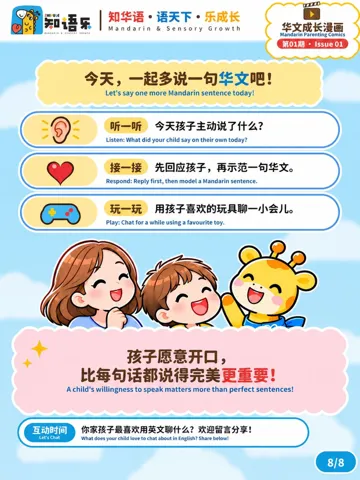
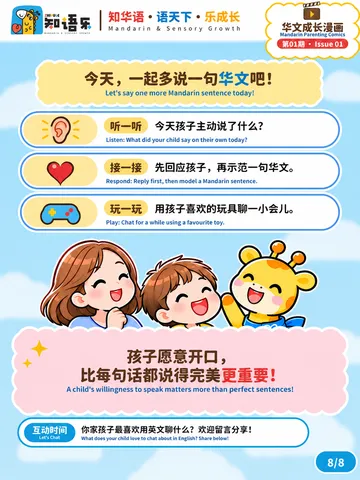
Replace comics issue 01 pages with corrected version (#10)
* Add HD Open House booking guide at /oh/ for WhatsApp auto-replies

Claude-Session: https://claude.ai/code/session_01Upodokur4TdWQNMQ22VW9f

* Add 15 Nov Parent-Child Mandarin Play Day recap to events pages

Group photo (one parent masked at their request) plus four activity photos,
bilingual copy, 4-up gallery style, and 9 new characters in the extra font subset.

Claude-Session: https://claude.ai/code/session_01Upodokur4TdWQNMQ22VW9f

* Replace comics issue 01 pages with corrected version

Claude-Session: https://claude.ai/code/session_01Upodokur4TdWQNMQ22VW9f

---------

diff --git a/en/comics/index.html b/en/comics/index.html
@@ -1,4 +1,4 @@
-<!doctype html><html lang="en"><head><!-- Google Tag Manager --><script>(function(w,d,s,l,i){w[l]=w[l]||[];w[l].push({'gtm.start':new Date().getTime(),event:'gtm.js'});var f=d.getElementsByTagName(s)[0],j=d.createElement(s),dl=l!='dataLayer'?'&l='+l:'';j.async=true;j.src='https://www.googletagmanager.com/gtm.js?id='+i+dl;f.parentNode.insertBefore(j,f);})(window,document,'script','dataLayer','GTM-PT9BQ7QQ');</script><!-- End Google Tag Manager --><!-- Google tag (gtag.js) --><script async src="https://www.googletagmanager.com/gtag/js?id=AW-18575906021"></script><script>window.dataLayer=window.dataLayer||[];function gtag(){dataLayer.push(arguments);}gtag('js',new Date());gtag('config','AW-18575906021');</script><!-- ChatGPT Ads measurement pixel --><script>!function(w,d,s,u){if(w.oaiq)return;var q=function(){q.q.push(arguments)};q.q=[];w.oaiq=q;var e=d.createElement(s);e.async=1;e.src=u;var f=d.getElementsByTagName(s)[0];f.parentNode.insertBefore(e,f)}(window,document,'script','https://bzrcdn.openai.com/sdk/oaiq.min.js');oaiq('init',{pixelId:'LngSCNQqQf6xZUMQBdrCTz'});oaiq('measure','page_viewed',{type:'contents'});</script><meta charset="utf-8"><meta name="viewport" content="width=device-width,initial-scale=1"><title>Mandarin Parenting Comics · 知语乐 ZHIYULE</title><meta name="description" content="ZHIYULE Mandarin Parenting Comics: bilingual comics about everyday Mandarin moments at home, each with simple ideas you can try today."><link rel="canonical" href="https://www.zhiyule.com.sg/en/comics/"><meta property="og:type" content="website"><meta property="og:site_name" content="知语乐 ZHIYULE"><meta property="og:title" content="Mandarin Parenting Comics · 知语乐 ZHIYULE"><meta property="og:description" content="ZHIYULE Mandarin Parenting Comics: bilingual comics about everyday Mandarin moments at home, each with simple ideas you can try today."><meta property="og:url" content="https://www.zhiyule.com.sg/en/comics/"><meta property="og:locale" content="en_SG"><meta property="og:image" content="https://www.zhiyule.com.sg/assets/comics/issue-01/og.jpg"><meta property="og:image:width" content="1200"><meta property="og:image:height" content="630"><meta property="og:image:alt" content="知语乐 ZHIYULE"><meta name="twitter:card" content="summary_large_image"><meta name="theme-color" content="#fff9ef"><link rel="alternate" hreflang="zh-Hans" href="/zh/comics/"><link rel="alternate" hreflang="en" href="/en/comics/"><link rel="icon" href="/assets/favicon.svg"><link rel="preload" href="/assets/fonts/rounded-regular.woff2" as="font" type="font/woff2" crossorigin><link rel="stylesheet" href="/assets/styles.css?v=20261117a"><script>try{if(location.pathname==='/')location.replace('/'+(localStorage.getItem('zhiyule-language')==='zh'?'zh':'en')+'/')}catch(e){}</script><script defer src="/assets/ui.js?v=20261115h"></script><link rel="stylesheet" href="/review.css?v=20261115a"></head><body data-home="false"><!-- Google Tag Manager (noscript) --><noscript><iframe src="https://www.googletagmanager.com/ns.html?id=GTM-PT9BQ7QQ" height="0" width="0" style="display:none;visibility:hidden"></iframe></noscript><!-- End Google Tag Manager (noscript) --><a class="skip" href="#main">Skip to content</a><div class="topline">Singapore · 18 months to 6.5 years · A nurturing space for preschool Mandarin<button type="button" class="music-toggle music-speaker" aria-label="Play theme song" aria-pressed="false"><svg viewBox="0 0 32 32" aria-hidden="true" focusable="false"><path d="M6 12h5l7-5v18l-7-5H6a2 2 0 0 1-2-2v-4a2 2 0 0 1 2-2Z" fill="#f3ae9d" stroke="#9b7060" stroke-width="1.7" stroke-linejoin="round"/><path class="sound-waves" d="M22 12q4 4 0 8m3-12q7 8 0 16" fill="none" stroke="#78976c" stroke-width="2.3" stroke-linecap="round"/><path class="sound-silent" d="m23 14 5 5m0-5-5 5" stroke="#9b7060" stroke-width="2" stroke-linecap="round"/></svg></button></div><header class="header"><div class="wrap header-row"><a class="brand" href="/en/" aria-label="ZHIYULE home"><span class="logo-window"><img src="/assets/brand-logo-vector.svg" alt="知语乐 ZHIYULE" width="1280" height="480"></span></a><nav id="main-nav" class="nav" aria-label="Main navigation"><a class="nav-pill tone-0" href="/en/why-zhiyule/">Why ZHIYULE</a><a class="nav-pill tone-1" href="/en/programmes/">Programmes</a><a class="nav-pill tone-2" href="/en/approach/">Our approach</a><a class="nav-pill tone-3" href="/en/founder/">Our story</a><a class="nav-pill tone-4" href="/en/parents/" aria-current="page">Parent space</a><a class="nav-pill tone-5" href="/en/events/">Events</a><a class="nav-pill tone-6" href="/en/contact/">Contact</a></nav><div class="header-actions"><a class="language" href="/zh/comics/" lang="zh-Hans">中文</a><a class="button " href="/en/trial/">Book a trial</a><button class="menu-button" aria-controls="site-menu" aria-expanded="false" aria-label="All pages">☰</button></div></div><dialog id="site-menu" class="site-menu"><div class="menu-heading"><h2>Explore ZHIYULE</h2><button type="button" data-close-menu aria-label="Close menu">×</button></div><nav aria-label="All site pages"><a class="" href="/en/">Home</a><a class="" href="/en/why-zhiyule/">Why ZHIYULE</a><a class="" href="/en/programmes/">Programmes</a><a class="" href="/en/programmes/pg/">PG · ZHIYULE Seeds</a><a class="" href="/en/programmes/n1/">N1 · ZHIYULE Sprouts</a><a class="" href="/en/programmes/n2/">N2 · ZHIYULE Stems</a><a class="" href="/en/programmes/k1/">K1 · ZHIYULE Leaves</a><a class="" href="/en/programmes/k2/">K2 · ZHIYULE Blooms</a><a class="" href="/en/approach/">Our approach</a><a class="" href="/en/founder/">Our story</a><a class="" href="/en/parents/">Parent space</a><a class="" href="/en/comics/">Mandarin Parenting Comics</a><a class="" href="/en/events/">Events</a><a class="" href="/en/contact/">Contact</a><a class="" href="/en/trial/">Book a trial</a><a class="" href="/en/faq/">FAQ</a></nav></dialog></header><main id="main"><div class="wrap breadcrumb"><a class="" href="/en/">Home</a> / <a class="" href="/en/parents/">Parent space</a> / Mandarin Parenting Comics</div><div class="wrap"><div class="comic-hero"><p class="eyebrow">MANDARIN PARENTING COMICS · ISSUE 01</p><h1>My child understands Mandarin, so why do they reply in English?</h1><p class="intro">You speak Mandarin and your child switches straight to English? Don’t jump to conclusions yet. Use the left and right arrows to turn the pages. 8 pages in all.</p></div></div><section class="section comic-section"><div class="wrap"><article class="comic-issue" id="issue-01"><noscript><style>.cr-page{display:block}.cr-nav,.cr-dots{display:none!important}</style></noscript><div class="comic-reader" tabindex="0" aria-roledescription="carousel" aria-label="My child understands Mandarin, so why do they reply in English?"><div class="cr-stage"><button type="button" class="cr-nav cr-prev" data-step="-1" aria-label="Previous page">‹</button><ol class="cr-pages"><li class="cr-page is-current" data-page="1"><img src="/assets/comics/issue-01/p1.webp?v=2" alt="Cover: My child understands Mandarin, so why do they reply in English?" width="1600" height="2133" loading="eager"><p class="cr-caption">Page 1 of 8 · Cover: My child understands Mandarin, so why do they reply in English?</p></li><li class="cr-page" data-page="2"><img src="/assets/comics/issue-01/p2.webp?v=2" alt="Why does my child keep replying in English?" width="1600" height="2133" loading="lazy"><p class="cr-caption">Page 2 of 8 · Why does my child keep replying in English?</p></li><li class="cr-page" data-page="3"><img src="/assets/comics/issue-01/p3.webp?v=2" alt="The secret of language blocks" width="1600" height="2133" loading="lazy"><p class="cr-caption">Page 3 of 8 · The secret of language blocks</p></li><li class="cr-page" data-page="4"><img src="/assets/comics/issue-01/p4.webp?v=2" alt="Method 1: Turn Mandarin into a fun game" width="1600" height="2133" loading="lazy"><p class="cr-caption">Page 4 of 8 · Method 1: Turn Mandarin into a fun game</p></li><li class="cr-page" data-page="5"><img src="/assets/comics/issue-01/p5.webp?v=2" alt="Method 2: When your child speaks English, how should you respond?" width="1600" height="2133" loading="lazy"><p class="cr-caption">Page 5 of 8 · Method 2: When your child speaks English, how should you respond?</p></li><li class="cr-page" data-page="6"><img src="/assets/comics/issue-01/p6.webp?v=2" alt="Method 3: Follow their interest and keep the chat going" width="1600" height="2133" loading="lazy"><p class="cr-caption">Page 6 of 8 · Method 3: Follow their interest and keep the chat going</p></li><li class="cr-page" data-page="7"><img src="/assets/comics/issue-01/p7.webp?v=2" alt="Create a Mandarin-friendly home" width="1600" height="2133" loading="lazy"><p class="cr-caption">Page 7 of 8 · Create a Mandarin-friendly home</p></li><li class="cr-page" data-page="8"><img src="/assets/comics/issue-01/p8.webp?v=2" alt="Let’s say one more Mandarin sentence today" width="1600" height="2133" loading="lazy"><p class="cr-caption">Page 8 of 8 · Let’s say one more Mandarin sentence today</p></li></ol><button type="button" class="cr-nav cr-next" data-step="1" aria-label="Next page">›</button></div><div class="cr-dots"><button type="button" class="cr-mnav" data-step="-1" aria-label="Previous page">‹</button><button type="button" class="cr-dot" data-go="1" aria-label="Page 1 of 8" aria-current="true">1</button><button type="button" class="cr-dot" data-go="2" aria-label="Page 2 of 8">2</button><button type="button" class="cr-dot" data-go="3" aria-label="Page 3 of 8">3</button><button type="button" class="cr-dot" data-go="4" aria-label="Page 4 of 8">4</button><button type="button" class="cr-dot" data-go="5" aria-label="Page 5 of 8">5</button><button type="button" class="cr-dot" data-go="6" aria-label="Page 6 of 8">6</button><button type="button" class="cr-dot" data-go="7" aria-label="Page 7 of 8">7</button><button type="button" class="cr-dot" data-go="8" aria-label="Page 8 of 8">8</button><button type="button" class="cr-mnav" data-step="1" aria-label="Next page">›</button></div></div><div class="comic-summary card"><h3>What this issue covers</h3><ul><li><strong>Understanding and speaking are different skills.</strong> Replying in English may come down to fluency, habit or confidence. One answer in English doesn’t mean your child doesn’t want to learn Mandarin.</li><li><strong>Method 1: Turn Mandarin into a fun game.</strong> Start with the toys and games your child loves. Don’t push them to speak; make them want to.</li><li><strong>Method 2: When your child speaks English, respond to the meaning first.</strong> Reply to what they want to say, then model the Mandarin sentence naturally. There’s no need to make them repeat it straight away.</li><li><strong>Method 3: Follow their interest and keep the chat going.</strong> Add your own observations, imagination and experiences, so the conversation flows back and forth like passing a ball.</li><li><strong>Create a Mandarin-friendly home.</strong> Use Mandarin at meals, brushing teeth and getting dressed, read picture books together, and make time to tell stories and act them out.</li></ul><p class="comic-takeaway">A child’s willingness to speak matters more than perfect sentences.</p></div></article></div></section><section class="section soft"><div class="wrap"><div class="comic-more"><div><h2>Coming next</h2><p>Later issues in Season 1 look at “I don’t want to learn Mandarin!”, children who can’t sit still, and more. Follow us on Facebook and Instagram to see each new issue first.</p></div><div class="actions"><a class="button secondary" href="https://www.facebook.com/profile.php?id=61595439665615" rel="noopener" target="_blank">Facebook</a><a class="button secondary" href="https://www.instagram.com/zhiyule.sg/" rel="noopener" target="_blank">Instagram</a></div></div></div></section><section class="section"><div class="wrap"><div class="cta"><div><h2>See how your child starts speaking in class</h2><p>Founding Open House, 12–27 Dec: a free 45-minute parent-child Mandarin lesson, with you there the whole time.</p></div><div class="actions"><a class="button" href="https://wa.me/6580719508?text=Hi%20ZHIYULE%2C%20I%20read%20the%20Mandarin%20Parenting%20Comics%20and%20I%27d%20like%20to%20book%20the%20Founding%20Open%20House.%0AChild%27s%20name%3A%0ADate%20of%20birth%3A%0APreferred%20date%20and%20time%3A" rel="noopener" target="_blank">Book the Open House on WhatsApp</a></div></div></div></section></main><script>/* Comics: show one page at a time, turned with the arrow buttons, page numbers, arrow keys or a swipe. */
+<!doctype html><html lang="en"><head><!-- Google Tag Manager --><script>(function(w,d,s,l,i){w[l]=w[l]||[];w[l].push({'gtm.start':new Date().getTime(),event:'gtm.js'});var f=d.getElementsByTagName(s)[0],j=d.createElement(s),dl=l!='dataLayer'?'&l='+l:'';j.async=true;j.src='https://www.googletagmanager.com/gtm.js?id='+i+dl;f.parentNode.insertBefore(j,f);})(window,document,'script','dataLayer','GTM-PT9BQ7QQ');</script><!-- End Google Tag Manager --><!-- Google tag (gtag.js) --><script async src="https://www.googletagmanager.com/gtag/js?id=AW-18575906021"></script><script>window.dataLayer=window.dataLayer||[];function gtag(){dataLayer.push(arguments);}gtag('js',new Date());gtag('config','AW-18575906021');</script><!-- ChatGPT Ads measurement pixel --><script>!function(w,d,s,u){if(w.oaiq)return;var q=function(){q.q.push(arguments)};q.q=[];w.oaiq=q;var e=d.createElement(s);e.async=1;e.src=u;var f=d.getElementsByTagName(s)[0];f.parentNode.insertBefore(e,f)}(window,document,'script','https://bzrcdn.openai.com/sdk/oaiq.min.js');oaiq('init',{pixelId:'LngSCNQqQf6xZUMQBdrCTz'});oaiq('measure','page_viewed',{type:'contents'});</script><meta charset="utf-8"><meta name="viewport" content="width=device-width,initial-scale=1"><title>Mandarin Parenting Comics · 知语乐 ZHIYULE</title><meta name="description" content="ZHIYULE Mandarin Parenting Comics: bilingual comics about everyday Mandarin moments at home, each with simple ideas you can try today."><link rel="canonical" href="https://www.zhiyule.com.sg/en/comics/"><meta property="og:type" content="website"><meta property="og:site_name" content="知语乐 ZHIYULE"><meta property="og:title" content="Mandarin Parenting Comics · 知语乐 ZHIYULE"><meta property="og:description" content="ZHIYULE Mandarin Parenting Comics: bilingual comics about everyday Mandarin moments at home, each with simple ideas you can try today."><meta property="og:url" content="https://www.zhiyule.com.sg/en/comics/"><meta property="og:locale" content="en_SG"><meta property="og:image" content="https://www.zhiyule.com.sg/assets/comics/issue-01/og.jpg"><meta property="og:image:width" content="1200"><meta property="og:image:height" content="630"><meta property="og:image:alt" content="知语乐 ZHIYULE"><meta name="twitter:card" content="summary_large_image"><meta name="theme-color" content="#fff9ef"><link rel="alternate" hreflang="zh-Hans" href="/zh/comics/"><link rel="alternate" hreflang="en" href="/en/comics/"><link rel="icon" href="/assets/favicon.svg"><link rel="preload" href="/assets/fonts/rounded-regular.woff2" as="font" type="font/woff2" crossorigin><link rel="stylesheet" href="/assets/styles.css?v=20261117a"><script>try{if(location.pathname==='/')location.replace('/'+(localStorage.getItem('zhiyule-language')==='zh'?'zh':'en')+'/')}catch(e){}</script><script defer src="/assets/ui.js?v=20261115h"></script><link rel="stylesheet" href="/review.css?v=20261115a"></head><body data-home="false"><!-- Google Tag Manager (noscript) --><noscript><iframe src="https://www.googletagmanager.com/ns.html?id=GTM-PT9BQ7QQ" height="0" width="0" style="display:none;visibility:hidden"></iframe></noscript><!-- End Google Tag Manager (noscript) --><a class="skip" href="#main">Skip to content</a><div class="topline">Singapore · 18 months to 6.5 years · A nurturing space for preschool Mandarin<button type="button" class="music-toggle music-speaker" aria-label="Play theme song" aria-pressed="false"><svg viewBox="0 0 32 32" aria-hidden="true" focusable="false"><path d="M6 12h5l7-5v18l-7-5H6a2 2 0 0 1-2-2v-4a2 2 0 0 1 2-2Z" fill="#f3ae9d" stroke="#9b7060" stroke-width="1.7" stroke-linejoin="round"/><path class="sound-waves" d="M22 12q4 4 0 8m3-12q7 8 0 16" fill="none" stroke="#78976c" stroke-width="2.3" stroke-linecap="round"/><path class="sound-silent" d="m23 14 5 5m0-5-5 5" stroke="#9b7060" stroke-width="2" stroke-linecap="round"/></svg></button></div><header class="header"><div class="wrap header-row"><a class="brand" href="/en/" aria-label="ZHIYULE home"><span class="logo-window"><img src="/assets/brand-logo-vector.svg" alt="知语乐 ZHIYULE" width="1280" height="480"></span></a><nav id="main-nav" class="nav" aria-label="Main navigation"><a class="nav-pill tone-0" href="/en/why-zhiyule/">Why ZHIYULE</a><a class="nav-pill tone-1" href="/en/programmes/">Programmes</a><a class="nav-pill tone-2" href="/en/approach/">Our approach</a><a class="nav-pill tone-3" href="/en/founder/">Our story</a><a class="nav-pill tone-4" href="/en/parents/" aria-current="page">Parent space</a><a class="nav-pill tone-5" href="/en/events/">Events</a><a class="nav-pill tone-6" href="/en/contact/">Contact</a></nav><div class="header-actions"><a class="language" href="/zh/comics/" lang="zh-Hans">中文</a><a class="button " href="/en/trial/">Book a trial</a><button class="menu-button" aria-controls="site-menu" aria-expanded="false" aria-label="All pages">☰</button></div></div><dialog id="site-menu" class="site-menu"><div class="menu-heading"><h2>Explore ZHIYULE</h2><button type="button" data-close-menu aria-label="Close menu">×</button></div><nav aria-label="All site pages"><a class="" href="/en/">Home</a><a class="" href="/en/why-zhiyule/">Why ZHIYULE</a><a class="" href="/en/programmes/">Programmes</a><a class="" href="/en/programmes/pg/">PG · ZHIYULE Seeds</a><a class="" href="/en/programmes/n1/">N1 · ZHIYULE Sprouts</a><a class="" href="/en/programmes/n2/">N2 · ZHIYULE Stems</a><a class="" href="/en/programmes/k1/">K1 · ZHIYULE Leaves</a><a class="" href="/en/programmes/k2/">K2 · ZHIYULE Blooms</a><a class="" href="/en/approach/">Our approach</a><a class="" href="/en/founder/">Our story</a><a class="" href="/en/parents/">Parent space</a><a class="" href="/en/comics/">Mandarin Parenting Comics</a><a class="" href="/en/events/">Events</a><a class="" href="/en/contact/">Contact</a><a class="" href="/en/trial/">Book a trial</a><a class="" href="/en/faq/">FAQ</a></nav></dialog></header><main id="main"><div class="wrap breadcrumb"><a class="" href="/en/">Home</a> / <a class="" href="/en/parents/">Parent space</a> / Mandarin Parenting Comics</div><div class="wrap"><div class="comic-hero"><p class="eyebrow">MANDARIN PARENTING COMICS · ISSUE 01</p><h1>My child understands Mandarin, so why do they reply in English?</h1><p class="intro">You speak Mandarin and your child switches straight to English? Don’t jump to conclusions yet. Use the left and right arrows to turn the pages. 8 pages in all.</p></div></div><section class="section comic-section"><div class="wrap"><article class="comic-issue" id="issue-01"><noscript><style>.cr-page{display:block}.cr-nav,.cr-dots{display:none!important}</style></noscript><div class="comic-reader" tabindex="0" aria-roledescription="carousel" aria-label="My child understands Mandarin, so why do they reply in English?"><div class="cr-stage"><button type="button" class="cr-nav cr-prev" data-step="-1" aria-label="Previous page">‹</button><ol class="cr-pages"><li class="cr-page is-current" data-page="1"><img src="/assets/comics/issue-01/p1.webp?v=3" alt="Cover: My child understands Mandarin, so why do they reply in English?" width="1600" height="2133" loading="eager"><p class="cr-caption">Page 1 of 8 · Cover: My child understands Mandarin, so why do they reply in English?</p></li><li class="cr-page" data-page="2"><img src="/assets/comics/issue-01/p2.webp?v=3" alt="Why does my child keep replying in English?" width="1600" height="2133" loading="lazy"><p class="cr-caption">Page 2 of 8 · Why does my child keep replying in English?</p></li><li class="cr-page" data-page="3"><img src="/assets/comics/issue-01/p3.webp?v=3" alt="The secret of language blocks" width="1600" height="2133" loading="lazy"><p class="cr-caption">Page 3 of 8 · The secret of language blocks</p></li><li class="cr-page" data-page="4"><img src="/assets/comics/issue-01/p4.webp?v=3" alt="Method 1: Turn Mandarin into a fun game" width="1600" height="2133" loading="lazy"><p class="cr-caption">Page 4 of 8 · Method 1: Turn Mandarin into a fun game</p></li><li class="cr-page" data-page="5"><img src="/assets/comics/issue-01/p5.webp?v=3" alt="Method 2: When your child speaks English, how should you respond?" width="1600" height="2133" loading="lazy"><p class="cr-caption">Page 5 of 8 · Method 2: When your child speaks English, how should you respond?</p></li><li class="cr-page" data-page="6"><img src="/assets/comics/issue-01/p6.webp?v=3" alt="Method 3: Follow their interest and keep the chat going" width="1600" height="2133" loading="lazy"><p class="cr-caption">Page 6 of 8 · Method 3: Follow their interest and keep the chat going</p></li><li class="cr-page" data-page="7"><img src="/assets/comics/issue-01/p7.webp?v=3" alt="Create a Mandarin-friendly home" width="1600" height="2133" loading="lazy"><p class="cr-caption">Page 7 of 8 · Create a Mandarin-friendly home</p></li><li class="cr-page" data-page="8"><img src="/assets/comics/issue-01/p8.webp?v=3" alt="Let’s say one more Mandarin sentence today" width="1600" height="2133" loading="lazy"><p class="cr-caption">Page 8 of 8 · Let’s say one more Mandarin sentence today</p></li></ol><button type="button" class="cr-nav cr-next" data-step="1" aria-label="Next page">›</button></div><div class="cr-dots"><button type="button" class="cr-mnav" data-step="-1" aria-label="Previous page">‹</button><button type="button" class="cr-dot" data-go="1" aria-label="Page 1 of 8" aria-current="true">1</button><button type="button" class="cr-dot" data-go="2" aria-label="Page 2 of 8">2</button><button type="button" class="cr-dot" data-go="3" aria-label="Page 3 of 8">3</button><button type="button" class="cr-dot" data-go="4" aria-label="Page 4 of 8">4</button><button type="button" class="cr-dot" data-go="5" aria-label="Page 5 of 8">5</button><button type="button" class="cr-dot" data-go="6" aria-label="Page 6 of 8">6</button><button type="button" class="cr-dot" data-go="7" aria-label="Page 7 of 8">7</button><button type="button" class="cr-dot" data-go="8" aria-label="Page 8 of 8">8</button><button type="button" class="cr-mnav" data-step="1" aria-label="Next page">›</button></div></div><div class="comic-summary card"><h3>What this issue covers</h3><ul><li><strong>Understanding and speaking are different skills.</strong> Replying in English may come down to fluency, habit or confidence. One answer in English doesn’t mean your child doesn’t want to learn Mandarin.</li><li><strong>Method 1: Turn Mandarin into a fun game.</strong> Start with the toys and games your child loves. Don’t push them to speak; make them want to.</li><li><strong>Method 2: When your child speaks English, respond to the meaning first.</strong> Reply to what they want to say, then model the Mandarin sentence naturally. There’s no need to make them repeat it straight away.</li><li><strong>Method 3: Follow their interest and keep the chat going.</strong> Add your own observations, imagination and experiences, so the conversation flows back and forth like passing a ball.</li><li><strong>Create a Mandarin-friendly home.</strong> Use Mandarin at meals, brushing teeth and getting dressed, read picture books together, and make time to tell stories and act them out.</li></ul><p class="comic-takeaway">A child’s willingness to speak matters more than perfect sentences.</p></div></article></div></section><section class="section soft"><div class="wrap"><div class="comic-more"><div><h2>Coming next</h2><p>Later issues in Season 1 look at “I don’t want to learn Mandarin!”, children who can’t sit still, and more. Follow us on Facebook and Instagram to see each new issue first.</p></div><div class="actions"><a class="button secondary" href="https://www.facebook.com/profile.php?id=61595439665615" rel="noopener" target="_blank">Facebook</a><a class="button secondary" href="https://www.instagram.com/zhiyule.sg/" rel="noopener" target="_blank">Instagram</a></div></div></div></section><section class="section"><div class="wrap"><div class="cta"><div><h2>See how your child starts speaking in class</h2><p>Founding Open House, 12–27 Dec: a free 45-minute parent-child Mandarin lesson, with you there the whole time.</p></div><div class="actions"><a class="button" href="https://wa.me/6580719508?text=Hi%20ZHIYULE%2C%20I%20read%20the%20Mandarin%20Parenting%20Comics%20and%20I%27d%20like%20to%20book%20the%20Founding%20Open%20House.%0AChild%27s%20name%3A%0ADate%20of%20birth%3A%0APreferred%20date%20and%20time%3A" rel="noopener" target="_blank">Book the Open House on WhatsApp</a></div></div></div></section></main><script>/* Comics: show one page at a time, turned with the arrow buttons, page numbers, arrow keys or a swipe. */
 (()=>{const r=document.querySelector('.comic-reader');if(!r)return;r.classList.add('js-reader');
 const pages=[...r.querySelectorAll('.cr-page')],dots=[...r.querySelectorAll('.cr-dot')];let n=1;
 const go=(k,scroll)=>{n=Math.min(Math.max(k,1),pages.length);pages.forEach((p,i)=>p.classList.toggle('is-current',i===n-1));dots.forEach((d,i)=>{if(i===n-1)d.setAttribute('aria-current','true');else d.removeAttribute('aria-current')});r.querySelectorAll('[data-step]').forEach(b=>{b.disabled=+b.dataset.step<0?n===1:n===pages.length});

diff --git a/zh/comics/index.html b/zh/comics/index.html
@@ -1,4 +1,4 @@
-<!doctype html><html lang="zh-Hans"><head><!-- Google Tag Manager --><script>(function(w,d,s,l,i){w[l]=w[l]||[];w[l].push({'gtm.start':new Date().getTime(),event:'gtm.js'});var f=d.getElementsByTagName(s)[0],j=d.createElement(s),dl=l!='dataLayer'?'&l='+l:'';j.async=true;j.src='https://www.googletagmanager.com/gtm.js?id='+i+dl;f.parentNode.insertBefore(j,f);})(window,document,'script','dataLayer','GTM-PT9BQ7QQ');</script><!-- End Google Tag Manager --><!-- Google tag (gtag.js) --><script async src="https://www.googletagmanager.com/gtag/js?id=AW-18575906021"></script><script>window.dataLayer=window.dataLayer||[];function gtag(){dataLayer.push(arguments);}gtag('js',new Date());gtag('config','AW-18575906021');</script><!-- ChatGPT Ads measurement pixel --><script>!function(w,d,s,u){if(w.oaiq)return;var q=function(){q.q.push(arguments)};q.q=[];w.oaiq=q;var e=d.createElement(s);e.async=1;e.src=u;var f=d.getElementsByTagName(s)[0];f.parentNode.insertBefore(e,f)}(window,document,'script','https://bzrcdn.openai.com/sdk/oaiq.min.js');oaiq('init',{pixelId:'LngSCNQqQf6xZUMQBdrCTz'});oaiq('measure','page_viewed',{type:'contents'});</script><meta charset="utf-8"><meta name="viewport" content="width=device-width,initial-scale=1"><title>华文成长漫画 · 知语乐 ZHIYULE</title><meta name="description" content="知语乐《华文成长漫画》：中英双语亲子漫画，每期一个真实的在家说华文情境，加上马上能用的小方法。"><link rel="canonical" href="https://www.zhiyule.com.sg/zh/comics/"><meta property="og:type" content="website"><meta property="og:site_name" content="知语乐 ZHIYULE"><meta property="og:title" content="华文成长漫画 · 知语乐 ZHIYULE"><meta property="og:description" content="知语乐《华文成长漫画》：中英双语亲子漫画，每期一个真实的在家说华文情境，加上马上能用的小方法。"><meta property="og:url" content="https://www.zhiyule.com.sg/zh/comics/"><meta property="og:locale" content="zh_SG"><meta property="og:image" content="https://www.zhiyule.com.sg/assets/comics/issue-01/og.jpg"><meta property="og:image:width" content="1200"><meta property="og:image:height" content="630"><meta property="og:image:alt" content="知语乐 ZHIYULE"><meta name="twitter:card" content="summary_large_image"><meta name="theme-color" content="#fff9ef"><link rel="alternate" hreflang="zh-Hans" href="/zh/comics/"><link rel="alternate" hreflang="en" href="/en/comics/"><link rel="icon" href="/assets/favicon.svg"><link rel="preload" href="/assets/fonts/rounded-regular.woff2" as="font" type="font/woff2" crossorigin><link rel="stylesheet" href="/assets/styles.css?v=20261117a"><script>try{if(location.pathname==='/')location.replace('/'+(localStorage.getItem('zhiyule-language')==='zh'?'zh':'en')+'/')}catch(e){}</script><script defer src="/assets/ui.js?v=20261115h"></script><link rel="stylesheet" href="/review.css?v=20261115a"></head><body data-home="false"><!-- Google Tag Manager (noscript) --><noscript><iframe src="https://www.googletagmanager.com/ns.html?id=GTM-PT9BQ7QQ" height="0" width="0" style="display:none;visibility:hidden"></iframe></noscript><!-- End Google Tag Manager (noscript) --><a class="skip" href="#main">跳至正文</a><div class="topline">新加坡 · 18 个月至 6.5 岁 · 学前华文成长空间<button type="button" class="music-toggle music-speaker" aria-label="播放主题曲" aria-pressed="false"><svg viewBox="0 0 32 32" aria-hidden="true" focusable="false"><path d="M6 12h5l7-5v18l-7-5H6a2 2 0 0 1-2-2v-4a2 2 0 0 1 2-2Z" fill="#f3ae9d" stroke="#9b7060" stroke-width="1.7" stroke-linejoin="round"/><path class="sound-waves" d="M22 12q4 4 0 8m3-12q7 8 0 16" fill="none" stroke="#78976c" stroke-width="2.3" stroke-linecap="round"/><path class="sound-silent" d="m23 14 5 5m0-5-5 5" stroke="#9b7060" stroke-width="2" stroke-linecap="round"/></svg></button></div><header class="header"><div class="wrap header-row"><a class="brand" href="/zh/" aria-label="知语乐首页"><span class="logo-window"><img src="/assets/brand-logo-vector.svg" alt="知语乐 ZHIYULE" width="1280" height="480"></span></a><nav id="main-nav" class="nav" aria-label="主导航"><a class="nav-pill tone-0" href="/zh/why-zhiyule/">为何知语乐</a><a class="nav-pill tone-1" href="/zh/programmes/">课程体系</a><a class="nav-pill tone-2" href="/zh/approach/">教学方法</a><a class="nav-pill tone-3" href="/zh/founder/">创办初心</a><a class="nav-pill tone-4" href="/zh/parents/" aria-current="page">家长空间</a><a class="nav-pill tone-5" href="/zh/events/">活动</a><a class="nav-pill tone-6" href="/zh/contact/">联系我们</a></nav><div class="header-actions"><a class="language" href="/en/comics/" lang="en">EN</a><a class="button " href="/zh/trial/">预约体验</a><button class="menu-button" aria-controls="site-menu" aria-expanded="false" aria-label="全部栏目">☰</button></div></div><dialog id="site-menu" class="site-menu"><div class="menu-heading"><h2>一起探索知语乐</h2><button type="button" data-close-menu aria-label="关闭菜单">×</button></div><nav aria-label="全站栏目"><a class="" href="/zh/">首页</a><a class="" href="/zh/why-zhiyule/">为何知语乐</a><a class="" href="/zh/programmes/">课程体系</a><a class="" href="/zh/programmes/pg/">PG · 阅芽班</a><a class="" href="/zh/programmes/n1/">N1 · 破土班</a><a class="" href="/zh/programmes/n2/">N2 · 枝展班</a><a class="" href="/zh/programmes/k1/">K1 · 繁叶班</a><a class="" href="/zh/programmes/k2/">K2 · 绽放班</a><a class="" href="/zh/approach/">教学方法</a><a class="" href="/zh/founder/">创办初心</a><a class="" href="/zh/parents/">家长空间</a><a class="" href="/zh/comics/">华文成长漫画</a><a class="" href="/zh/events/">活动</a><a class="" href="/zh/contact/">联系我们</a><a class="" href="/zh/trial/">预约体验</a><a class="" href="/zh/faq/">常见问题</a></nav></dialog></header><main id="main"><div class="wrap breadcrumb"><a class="" href="/zh/">首页</a> / <a class="" href="/zh/parents/">家长空间</a> / 华文成长漫画</div><div class="wrap"><div class="comic-hero"><p class="eyebrow">华文成长漫画 · 第 01 期</p><h1>听得懂华文，为什么总用英文回答？</h1><p class="intro">妈妈说华文，孩子却自动切换英文频道？先别急着下结论。点左右箭头翻页阅读，共 8 页。</p></div></div><section class="section comic-section"><div class="wrap"><article class="comic-issue" id="issue-01"><noscript><style>.cr-page{display:block}.cr-nav,.cr-dots{display:none!important}</style></noscript><div class="comic-reader" tabindex="0" aria-roledescription="carousel" aria-label="听得懂华文，为什么总用英文回答？"><div class="cr-stage"><button type="button" class="cr-nav cr-prev" data-step="-1" aria-label="上一页">‹</button><ol class="cr-pages"><li class="cr-page is-current" data-page="1"><img src="/assets/comics/issue-01/p1.webp?v=2" alt="封面：听得懂华文，为什么总用英文回答？" width="1600" height="2133" loading="eager"><p class="cr-caption">第 1 页，共 8 页 · 封面：听得懂华文，为什么总用英文回答？</p></li><li class="cr-page" data-page="2"><img src="/assets/comics/issue-01/p2.webp?v=2" alt="孩子为什么总用英文回答？" width="1600" height="2133" loading="lazy"><p class="cr-caption">第 2 页，共 8 页 · 孩子为什么总用英文回答？</p></li><li class="cr-page" data-page="3"><img src="/assets/comics/issue-01/p3.webp?v=2" alt="语言积木的秘密" width="1600" height="2133" loading="lazy"><p class="cr-caption">第 3 页，共 8 页 · 语言积木的秘密</p></li><li class="cr-page" data-page="4"><img src="/assets/comics/issue-01/p4.webp?v=2" alt="方法一：让华文变成好玩的游戏" width="1600" height="2133" loading="lazy"><p class="cr-caption">第 4 页，共 8 页 · 方法一：让华文变成好玩的游戏</p></li><li class="cr-page" data-page="5"><img src="/assets/comics/issue-01/p5.webp?v=2" alt="方法二：孩子说英文，妈妈怎么接？" width="1600" height="2133" loading="lazy"><p class="cr-caption">第 5 页，共 8 页 · 方法二：孩子说英文，妈妈怎么接？</p></li><li class="cr-page" data-page="6"><img src="/assets/comics/issue-01/p6.webp?v=2" alt="方法三：跟着兴趣，把话聊下去" width="1600" height="2133" loading="lazy"><p class="cr-caption">第 6 页，共 8 页 · 方法三：跟着兴趣，把话聊下去</p></li><li class="cr-page" data-page="7"><img src="/assets/comics/issue-01/p7.webp?v=2" alt="在家也能创造华文环境" width="1600" height="2133" loading="lazy"><p class="cr-caption">第 7 页，共 8 页 · 在家也能创造华文环境</p></li><li class="cr-page" data-page="8"><img src="/assets/comics/issue-01/p8.webp?v=2" alt="今天，一起多说一句华文吧" width="1600" height="2133" loading="lazy"><p class="cr-caption">第 8 页，共 8 页 · 今天，一起多说一句华文吧</p></li></ol><button type="button" class="cr-nav cr-next" data-step="1" aria-label="下一页">›</button></div><div class="cr-dots"><button type="button" class="cr-mnav" data-step="-1" aria-label="上一页">‹</button><button type="button" class="cr-dot" data-go="1" aria-label="第 1 页，共 8 页" aria-current="true">1</button><button type="button" class="cr-dot" data-go="2" aria-label="第 2 页，共 8 页">2</button><button type="button" class="cr-dot" data-go="3" aria-label="第 3 页，共 8 页">3</button><button type="button" class="cr-dot" data-go="4" aria-label="第 4 页，共 8 页">4</button><button type="button" class="cr-dot" data-go="5" aria-label="第 5 页，共 8 页">5</button><button type="button" class="cr-dot" data-go="6" aria-label="第 6 页，共 8 页">6</button><button type="button" class="cr-dot" data-go="7" aria-label="第 7 页，共 8 页">7</button><button type="button" class="cr-dot" data-go="8" aria-label="第 8 页，共 8 页">8</button><button type="button" class="cr-mnav" data-step="1" aria-label="下一页">›</button></div></div><div class="comic-summary card"><h3>这一期讲了什么</h3><ul><li><strong>听得懂和说得出，是两种不同的能力。</strong>孩子用英文回答，可能和语言熟练度、使用习惯、表达信心有关；一次回答不代表他不愿意学华文。</li><li><strong>方法一：让华文变成好玩的游戏。</strong>从孩子喜欢的玩具和游戏入手，不催他说，先让他想说。</li><li><strong>方法二：孩子说英文，先接住意思。</strong>先回应孩子想表达的内容，再自然示范对应的华文句子，不必要求他马上重复。</li><li><strong>方法三：跟着兴趣，把话聊下去。</strong>加入你的观察、想象和经验，让聊天像传球一样来回。</li><li><strong>在家也能创造华文环境。</strong>吃饭、刷牙、穿衣时多说华文，一起读绘本，多一点讲故事和演一演的亲子时间。</li></ul><p class="comic-takeaway">孩子愿意开口，比每句话都说得完美更重要。</p></div></article></div></section><section class="section soft"><div class="wrap"><div class="comic-more"><div><h2>下一期</h2><p>第一季接下来还会讲到「我不要学华文」、孩子坐不住等情境。关注我们的 Facebook 和 Instagram，第一时间看到新一期。</p></div><div class="actions"><a class="button secondary" href="https://www.facebook.com/profile.php?id=61595439665615" rel="noopener" target="_blank">Facebook</a><a class="button secondary" href="https://www.instagram.com/zhiyule.sg/" rel="noopener" target="_blank">Instagram</a></div></div></div></section><section class="section"><div class="wrap"><div class="cta"><div><h2>想看看孩子在课堂上怎么开口？</h2><p>创校 Open House 12 月 12–27 日，免费 45 分钟亲子华文课，家长全程陪同。</p></div><div class="actions"><a class="button" href="https://wa.me/6580719508?text=%E4%BD%A0%E5%A5%BD%EF%BC%8C%E6%88%91%E7%9C%8B%E4%BA%86%E3%80%8A%E5%8D%8E%E6%96%87%E6%88%90%E9%95%BF%E6%BC%AB%E7%94%BB%E3%80%8B%EF%BC%8C%E6%83%B3%E9%A2%84%E7%BA%A6%E7%9F%A5%E8%AF%AD%E4%B9%90%E5%88%9B%E6%A0%A1%20Open%20House%E3%80%82%0A%E5%AD%A9%E5%AD%90%E5%A7%93%E5%90%8D%EF%BC%9A%0A%E5%87%BA%E7%94%9F%E5%B9%B4%E6%9C%88%EF%BC%9A%0A%E6%83%B3%E8%A6%81%E7%9A%84%E6%97%A5%E6%9C%9F%E5%92%8C%E6%97%B6%E6%AE%B5%EF%BC%9A" rel="noopener" target="_blank">WhatsApp 预约 Open House</a></div></div></div></section></main><script>/* Comics: show one page at a time, turned with the arrow buttons, page numbers, arrow keys or a swipe. */
+<!doctype html><html lang="zh-Hans"><head><!-- Google Tag Manager --><script>(function(w,d,s,l,i){w[l]=w[l]||[];w[l].push({'gtm.start':new Date().getTime(),event:'gtm.js'});var f=d.getElementsByTagName(s)[0],j=d.createElement(s),dl=l!='dataLayer'?'&l='+l:'';j.async=true;j.src='https://www.googletagmanager.com/gtm.js?id='+i+dl;f.parentNode.insertBefore(j,f);})(window,document,'script','dataLayer','GTM-PT9BQ7QQ');</script><!-- End Google Tag Manager --><!-- Google tag (gtag.js) --><script async src="https://www.googletagmanager.com/gtag/js?id=AW-18575906021"></script><script>window.dataLayer=window.dataLayer||[];function gtag(){dataLayer.push(arguments);}gtag('js',new Date());gtag('config','AW-18575906021');</script><!-- ChatGPT Ads measurement pixel --><script>!function(w,d,s,u){if(w.oaiq)return;var q=function(){q.q.push(arguments)};q.q=[];w.oaiq=q;var e=d.createElement(s);e.async=1;e.src=u;var f=d.getElementsByTagName(s)[0];f.parentNode.insertBefore(e,f)}(window,document,'script','https://bzrcdn.openai.com/sdk/oaiq.min.js');oaiq('init',{pixelId:'LngSCNQqQf6xZUMQBdrCTz'});oaiq('measure','page_viewed',{type:'contents'});</script><meta charset="utf-8"><meta name="viewport" content="width=device-width,initial-scale=1"><title>华文成长漫画 · 知语乐 ZHIYULE</title><meta name="description" content="知语乐《华文成长漫画》：中英双语亲子漫画，每期一个真实的在家说华文情境，加上马上能用的小方法。"><link rel="canonical" href="https://www.zhiyule.com.sg/zh/comics/"><meta property="og:type" content="website"><meta property="og:site_name" content="知语乐 ZHIYULE"><meta property="og:title" content="华文成长漫画 · 知语乐 ZHIYULE"><meta property="og:description" content="知语乐《华文成长漫画》：中英双语亲子漫画，每期一个真实的在家说华文情境，加上马上能用的小方法。"><meta property="og:url" content="https://www.zhiyule.com.sg/zh/comics/"><meta property="og:locale" content="zh_SG"><meta property="og:image" content="https://www.zhiyule.com.sg/assets/comics/issue-01/og.jpg"><meta property="og:image:width" content="1200"><meta property="og:image:height" content="630"><meta property="og:image:alt" content="知语乐 ZHIYULE"><meta name="twitter:card" content="summary_large_image"><meta name="theme-color" content="#fff9ef"><link rel="alternate" hreflang="zh-Hans" href="/zh/comics/"><link rel="alternate" hreflang="en" href="/en/comics/"><link rel="icon" href="/assets/favicon.svg"><link rel="preload" href="/assets/fonts/rounded-regular.woff2" as="font" type="font/woff2" crossorigin><link rel="stylesheet" href="/assets/styles.css?v=20261117a"><script>try{if(location.pathname==='/')location.replace('/'+(localStorage.getItem('zhiyule-language')==='zh'?'zh':'en')+'/')}catch(e){}</script><script defer src="/assets/ui.js?v=20261115h"></script><link rel="stylesheet" href="/review.css?v=20261115a"></head><body data-home="false"><!-- Google Tag Manager (noscript) --><noscript><iframe src="https://www.googletagmanager.com/ns.html?id=GTM-PT9BQ7QQ" height="0" width="0" style="display:none;visibility:hidden"></iframe></noscript><!-- End Google Tag Manager (noscript) --><a class="skip" href="#main">跳至正文</a><div class="topline">新加坡 · 18 个月至 6.5 岁 · 学前华文成长空间<button type="button" class="music-toggle music-speaker" aria-label="播放主题曲" aria-pressed="false"><svg viewBox="0 0 32 32" aria-hidden="true" focusable="false"><path d="M6 12h5l7-5v18l-7-5H6a2 2 0 0 1-2-2v-4a2 2 0 0 1 2-2Z" fill="#f3ae9d" stroke="#9b7060" stroke-width="1.7" stroke-linejoin="round"/><path class="sound-waves" d="M22 12q4 4 0 8m3-12q7 8 0 16" fill="none" stroke="#78976c" stroke-width="2.3" stroke-linecap="round"/><path class="sound-silent" d="m23 14 5 5m0-5-5 5" stroke="#9b7060" stroke-width="2" stroke-linecap="round"/></svg></button></div><header class="header"><div class="wrap header-row"><a class="brand" href="/zh/" aria-label="知语乐首页"><span class="logo-window"><img src="/assets/brand-logo-vector.svg" alt="知语乐 ZHIYULE" width="1280" height="480"></span></a><nav id="main-nav" class="nav" aria-label="主导航"><a class="nav-pill tone-0" href="/zh/why-zhiyule/">为何知语乐</a><a class="nav-pill tone-1" href="/zh/programmes/">课程体系</a><a class="nav-pill tone-2" href="/zh/approach/">教学方法</a><a class="nav-pill tone-3" href="/zh/founder/">创办初心</a><a class="nav-pill tone-4" href="/zh/parents/" aria-current="page">家长空间</a><a class="nav-pill tone-5" href="/zh/events/">活动</a><a class="nav-pill tone-6" href="/zh/contact/">联系我们</a></nav><div class="header-actions"><a class="language" href="/en/comics/" lang="en">EN</a><a class="button " href="/zh/trial/">预约体验</a><button class="menu-button" aria-controls="site-menu" aria-expanded="false" aria-label="全部栏目">☰</button></div></div><dialog id="site-menu" class="site-menu"><div class="menu-heading"><h2>一起探索知语乐</h2><button type="button" data-close-menu aria-label="关闭菜单">×</button></div><nav aria-label="全站栏目"><a class="" href="/zh/">首页</a><a class="" href="/zh/why-zhiyule/">为何知语乐</a><a class="" href="/zh/programmes/">课程体系</a><a class="" href="/zh/programmes/pg/">PG · 阅芽班</a><a class="" href="/zh/programmes/n1/">N1 · 破土班</a><a class="" href="/zh/programmes/n2/">N2 · 枝展班</a><a class="" href="/zh/programmes/k1/">K1 · 繁叶班</a><a class="" href="/zh/programmes/k2/">K2 · 绽放班</a><a class="" href="/zh/approach/">教学方法</a><a class="" href="/zh/founder/">创办初心</a><a class="" href="/zh/parents/">家长空间</a><a class="" href="/zh/comics/">华文成长漫画</a><a class="" href="/zh/events/">活动</a><a class="" href="/zh/contact/">联系我们</a><a class="" href="/zh/trial/">预约体验</a><a class="" href="/zh/faq/">常见问题</a></nav></dialog></header><main id="main"><div class="wrap breadcrumb"><a class="" href="/zh/">首页</a> / <a class="" href="/zh/parents/">家长空间</a> / 华文成长漫画</div><div class="wrap"><div class="comic-hero"><p class="eyebrow">华文成长漫画 · 第 01 期</p><h1>听得懂华文，为什么总用英文回答？</h1><p class="intro">妈妈说华文，孩子却自动切换英文频道？先别急着下结论。点左右箭头翻页阅读，共 8 页。</p></div></div><section class="section comic-section"><div class="wrap"><article class="comic-issue" id="issue-01"><noscript><style>.cr-page{display:block}.cr-nav,.cr-dots{display:none!important}</style></noscript><div class="comic-reader" tabindex="0" aria-roledescription="carousel" aria-label="听得懂华文，为什么总用英文回答？"><div class="cr-stage"><button type="button" class="cr-nav cr-prev" data-step="-1" aria-label="上一页">‹</button><ol class="cr-pages"><li class="cr-page is-current" data-page="1"><img src="/assets/comics/issue-01/p1.webp?v=3" alt="封面：听得懂华文，为什么总用英文回答？" width="1600" height="2133" loading="eager"><p class="cr-caption">第 1 页，共 8 页 · 封面：听得懂华文，为什么总用英文回答？</p></li><li class="cr-page" data-page="2"><img src="/assets/comics/issue-01/p2.webp?v=3" alt="孩子为什么总用英文回答？" width="1600" height="2133" loading="lazy"><p class="cr-caption">第 2 页，共 8 页 · 孩子为什么总用英文回答？</p></li><li class="cr-page" data-page="3"><img src="/assets/comics/issue-01/p3.webp?v=3" alt="语言积木的秘密" width="1600" height="2133" loading="lazy"><p class="cr-caption">第 3 页，共 8 页 · 语言积木的秘密</p></li><li class="cr-page" data-page="4"><img src="/assets/comics/issue-01/p4.webp?v=3" alt="方法一：让华文变成好玩的游戏" width="1600" height="2133" loading="lazy"><p class="cr-caption">第 4 页，共 8 页 · 方法一：让华文变成好玩的游戏</p></li><li class="cr-page" data-page="5"><img src="/assets/comics/issue-01/p5.webp?v=3" alt="方法二：孩子说英文，妈妈怎么接？" width="1600" height="2133" loading="lazy"><p class="cr-caption">第 5 页，共 8 页 · 方法二：孩子说英文，妈妈怎么接？</p></li><li class="cr-page" data-page="6"><img src="/assets/comics/issue-01/p6.webp?v=3" alt="方法三：跟着兴趣，把话聊下去" width="1600" height="2133" loading="lazy"><p class="cr-caption">第 6 页，共 8 页 · 方法三：跟着兴趣，把话聊下去</p></li><li class="cr-page" data-page="7"><img src="/assets/comics/issue-01/p7.webp?v=3" alt="在家也能创造华文环境" width="1600" height="2133" loading="lazy"><p class="cr-caption">第 7 页，共 8 页 · 在家也能创造华文环境</p></li><li class="cr-page" data-page="8"><img src="/assets/comics/issue-01/p8.webp?v=3" alt="今天，一起多说一句华文吧" width="1600" height="2133" loading="lazy"><p class="cr-caption">第 8 页，共 8 页 · 今天，一起多说一句华文吧</p></li></ol><button type="button" class="cr-nav cr-next" data-step="1" aria-label="下一页">›</button></div><div class="cr-dots"><button type="button" class="cr-mnav" data-step="-1" aria-label="上一页">‹</button><button type="button" class="cr-dot" data-go="1" aria-label="第 1 页，共 8 页" aria-current="true">1</button><button type="button" class="cr-dot" data-go="2" aria-label="第 2 页，共 8 页">2</button><button type="button" class="cr-dot" data-go="3" aria-label="第 3 页，共 8 页">3</button><button type="button" class="cr-dot" data-go="4" aria-label="第 4 页，共 8 页">4</button><button type="button" class="cr-dot" data-go="5" aria-label="第 5 页，共 8 页">5</button><button type="button" class="cr-dot" data-go="6" aria-label="第 6 页，共 8 页">6</button><button type="button" class="cr-dot" data-go="7" aria-label="第 7 页，共 8 页">7</button><button type="button" class="cr-dot" data-go="8" aria-label="第 8 页，共 8 页">8</button><button type="button" class="cr-mnav" data-step="1" aria-label="下一页">›</button></div></div><div class="comic-summary card"><h3>这一期讲了什么</h3><ul><li><strong>听得懂和说得出，是两种不同的能力。</strong>孩子用英文回答，可能和语言熟练度、使用习惯、表达信心有关；一次回答不代表他不愿意学华文。</li><li><strong>方法一：让华文变成好玩的游戏。</strong>从孩子喜欢的玩具和游戏入手，不催他说，先让他想说。</li><li><strong>方法二：孩子说英文，先接住意思。</strong>先回应孩子想表达的内容，再自然示范对应的华文句子，不必要求他马上重复。</li><li><strong>方法三：跟着兴趣，把话聊下去。</strong>加入你的观察、想象和经验，让聊天像传球一样来回。</li><li><strong>在家也能创造华文环境。</strong>吃饭、刷牙、穿衣时多说华文，一起读绘本，多一点讲故事和演一演的亲子时间。</li></ul><p class="comic-takeaway">孩子愿意开口，比每句话都说得完美更重要。</p></div></article></div></section><section class="section soft"><div class="wrap"><div class="comic-more"><div><h2>下一期</h2><p>第一季接下来还会讲到「我不要学华文」、孩子坐不住等情境。关注我们的 Facebook 和 Instagram，第一时间看到新一期。</p></div><div class="actions"><a class="button secondary" href="https://www.facebook.com/profile.php?id=61595439665615" rel="noopener" target="_blank">Facebook</a><a class="button secondary" href="https://www.instagram.com/zhiyule.sg/" rel="noopener" target="_blank">Instagram</a></div></div></div></section><section class="section"><div class="wrap"><div class="cta"><div><h2>想看看孩子在课堂上怎么开口？</h2><p>创校 Open House 12 月 12–27 日，免费 45 分钟亲子华文课，家长全程陪同。</p></div><div class="actions"><a class="button" href="https://wa.me/6580719508?text=%E4%BD%A0%E5%A5%BD%EF%BC%8C%E6%88%91%E7%9C%8B%E4%BA%86%E3%80%8A%E5%8D%8E%E6%96%87%E6%88%90%E9%95%BF%E6%BC%AB%E7%94%BB%E3%80%8B%EF%BC%8C%E6%83%B3%E9%A2%84%E7%BA%A6%E7%9F%A5%E8%AF%AD%E4%B9%90%E5%88%9B%E6%A0%A1%20Open%20House%E3%80%82%0A%E5%AD%A9%E5%AD%90%E5%A7%93%E5%90%8D%EF%BC%9A%0A%E5%87%BA%E7%94%9F%E5%B9%B4%E6%9C%88%EF%BC%9A%0A%E6%83%B3%E8%A6%81%E7%9A%84%E6%97%A5%E6%9C%9F%E5%92%8C%E6%97%B6%E6%AE%B5%EF%BC%9A" rel="noopener" target="_blank">WhatsApp 预约 Open House</a></div></div></div></section></main><script>/* Comics: show one page at a time, turned with the arrow buttons, page numbers, arrow keys or a swipe. */
 (()=>{const r=document.querySelector('.comic-reader');if(!r)return;r.classList.add('js-reader');
 const pages=[...r.querySelectorAll('.cr-page')],dots=[...r.querySelectorAll('.cr-dot')];let n=1;
 const go=(k,scroll)=>{n=Math.min(Math.max(k,1),pages.length);pages.forEach((p,i)=>p.classList.toggle('is-current',i===n-1));dots.forEach((d,i)=>{if(i===n-1)d.setAttribute('aria-current','true');else d.removeAttribute('aria-current')});r.querySelectorAll('[data-step]').forEach(b=>{b.disabled=+b.dataset.step<0?n===1:n===pages.length});
